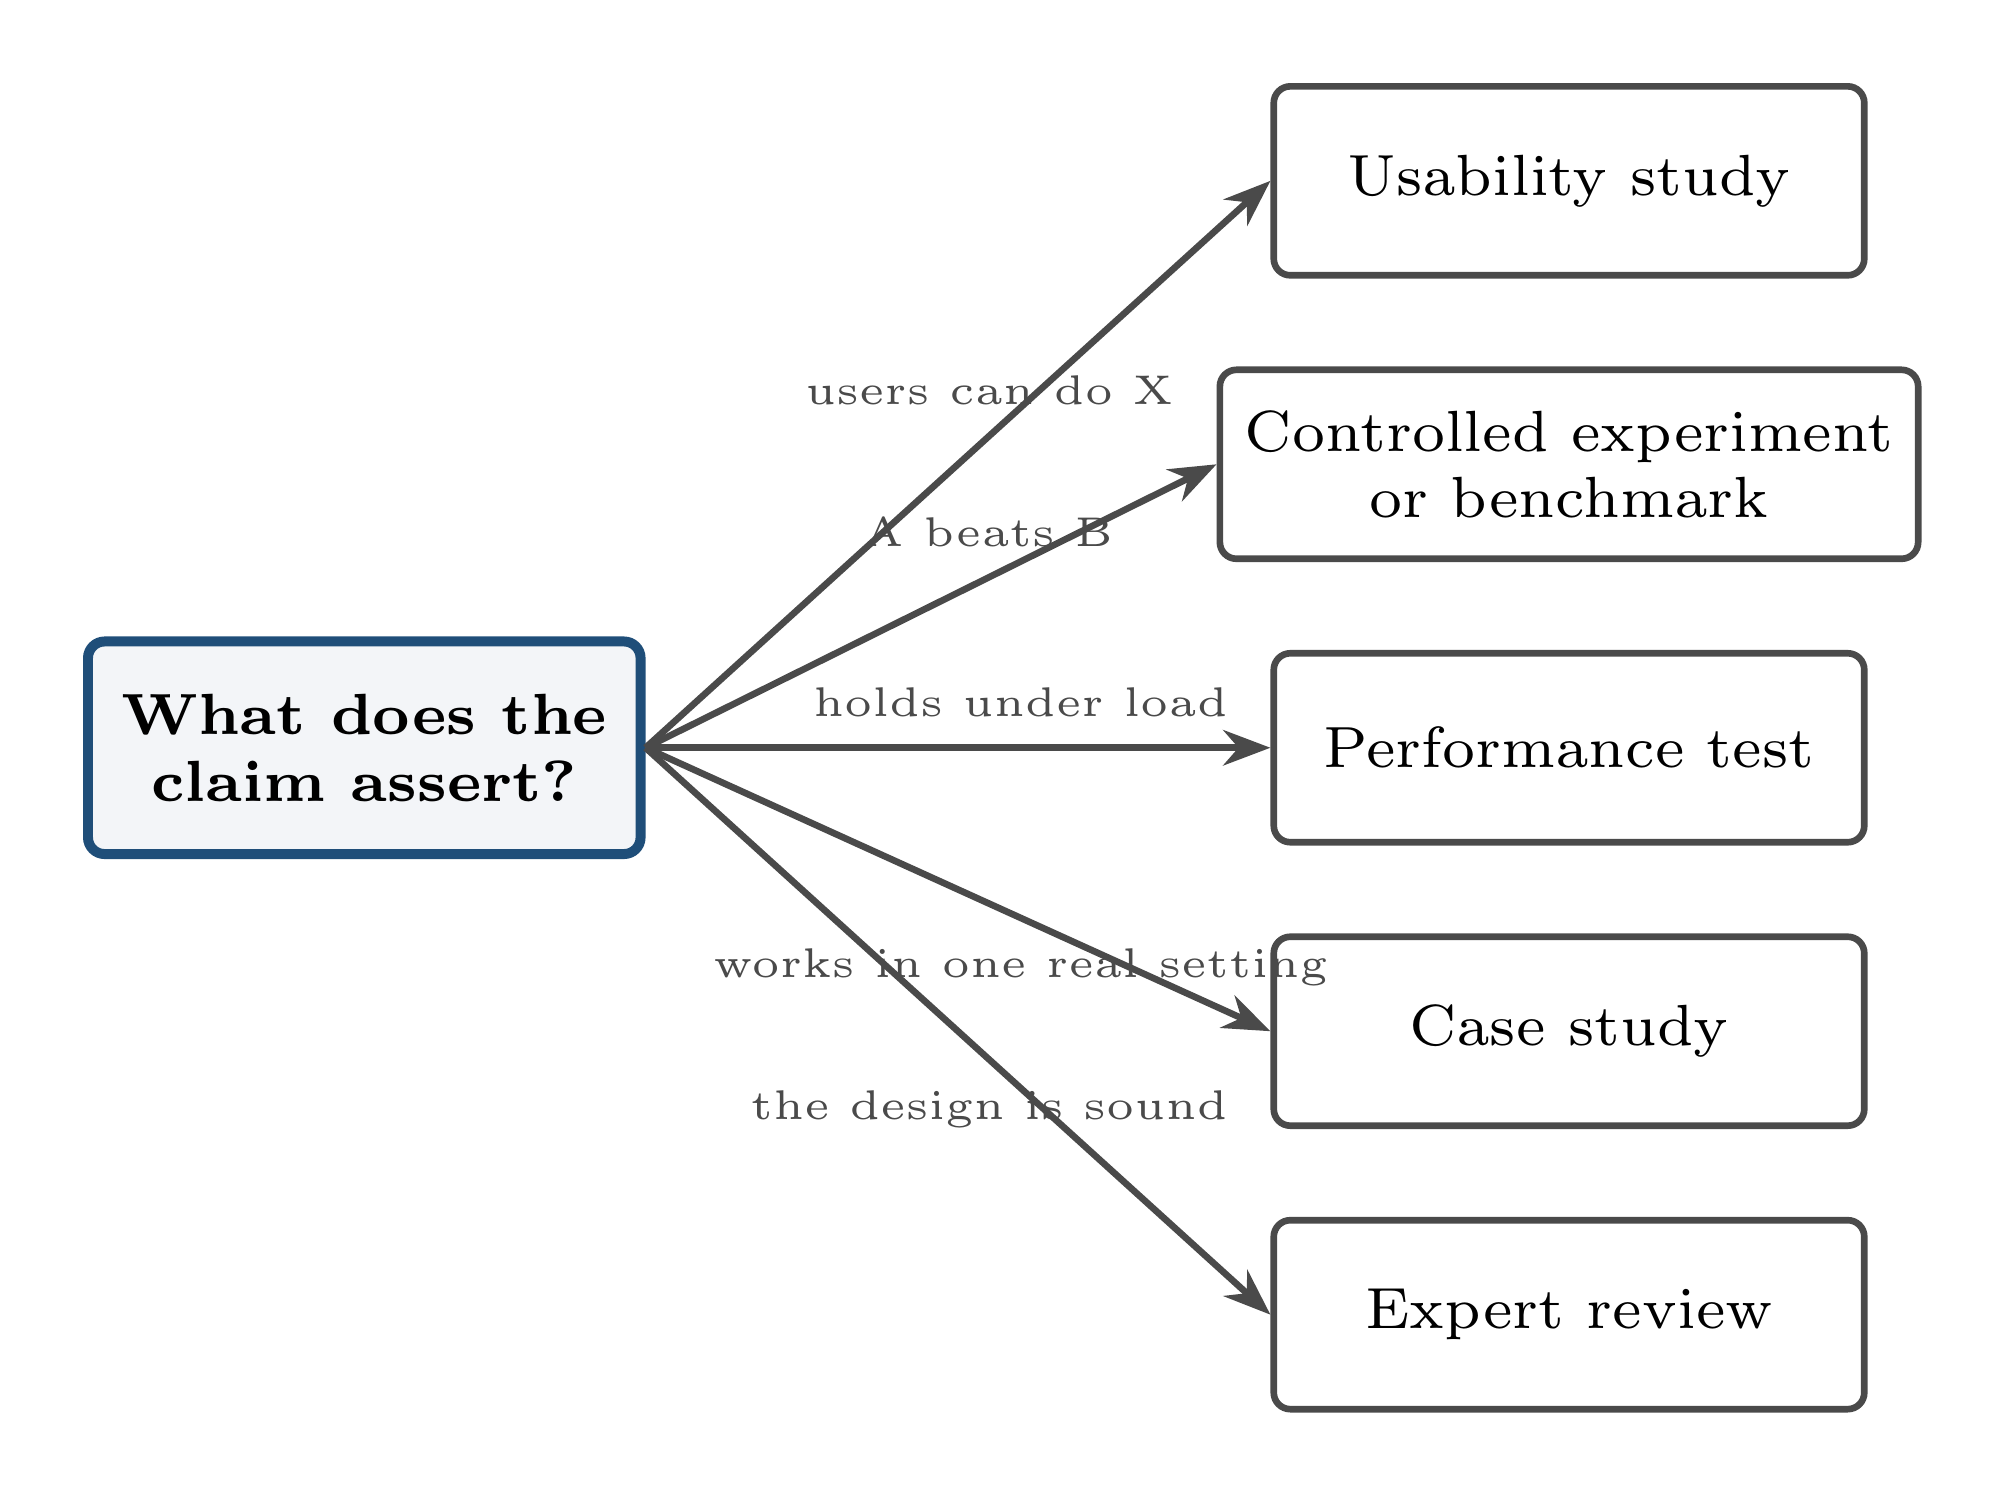
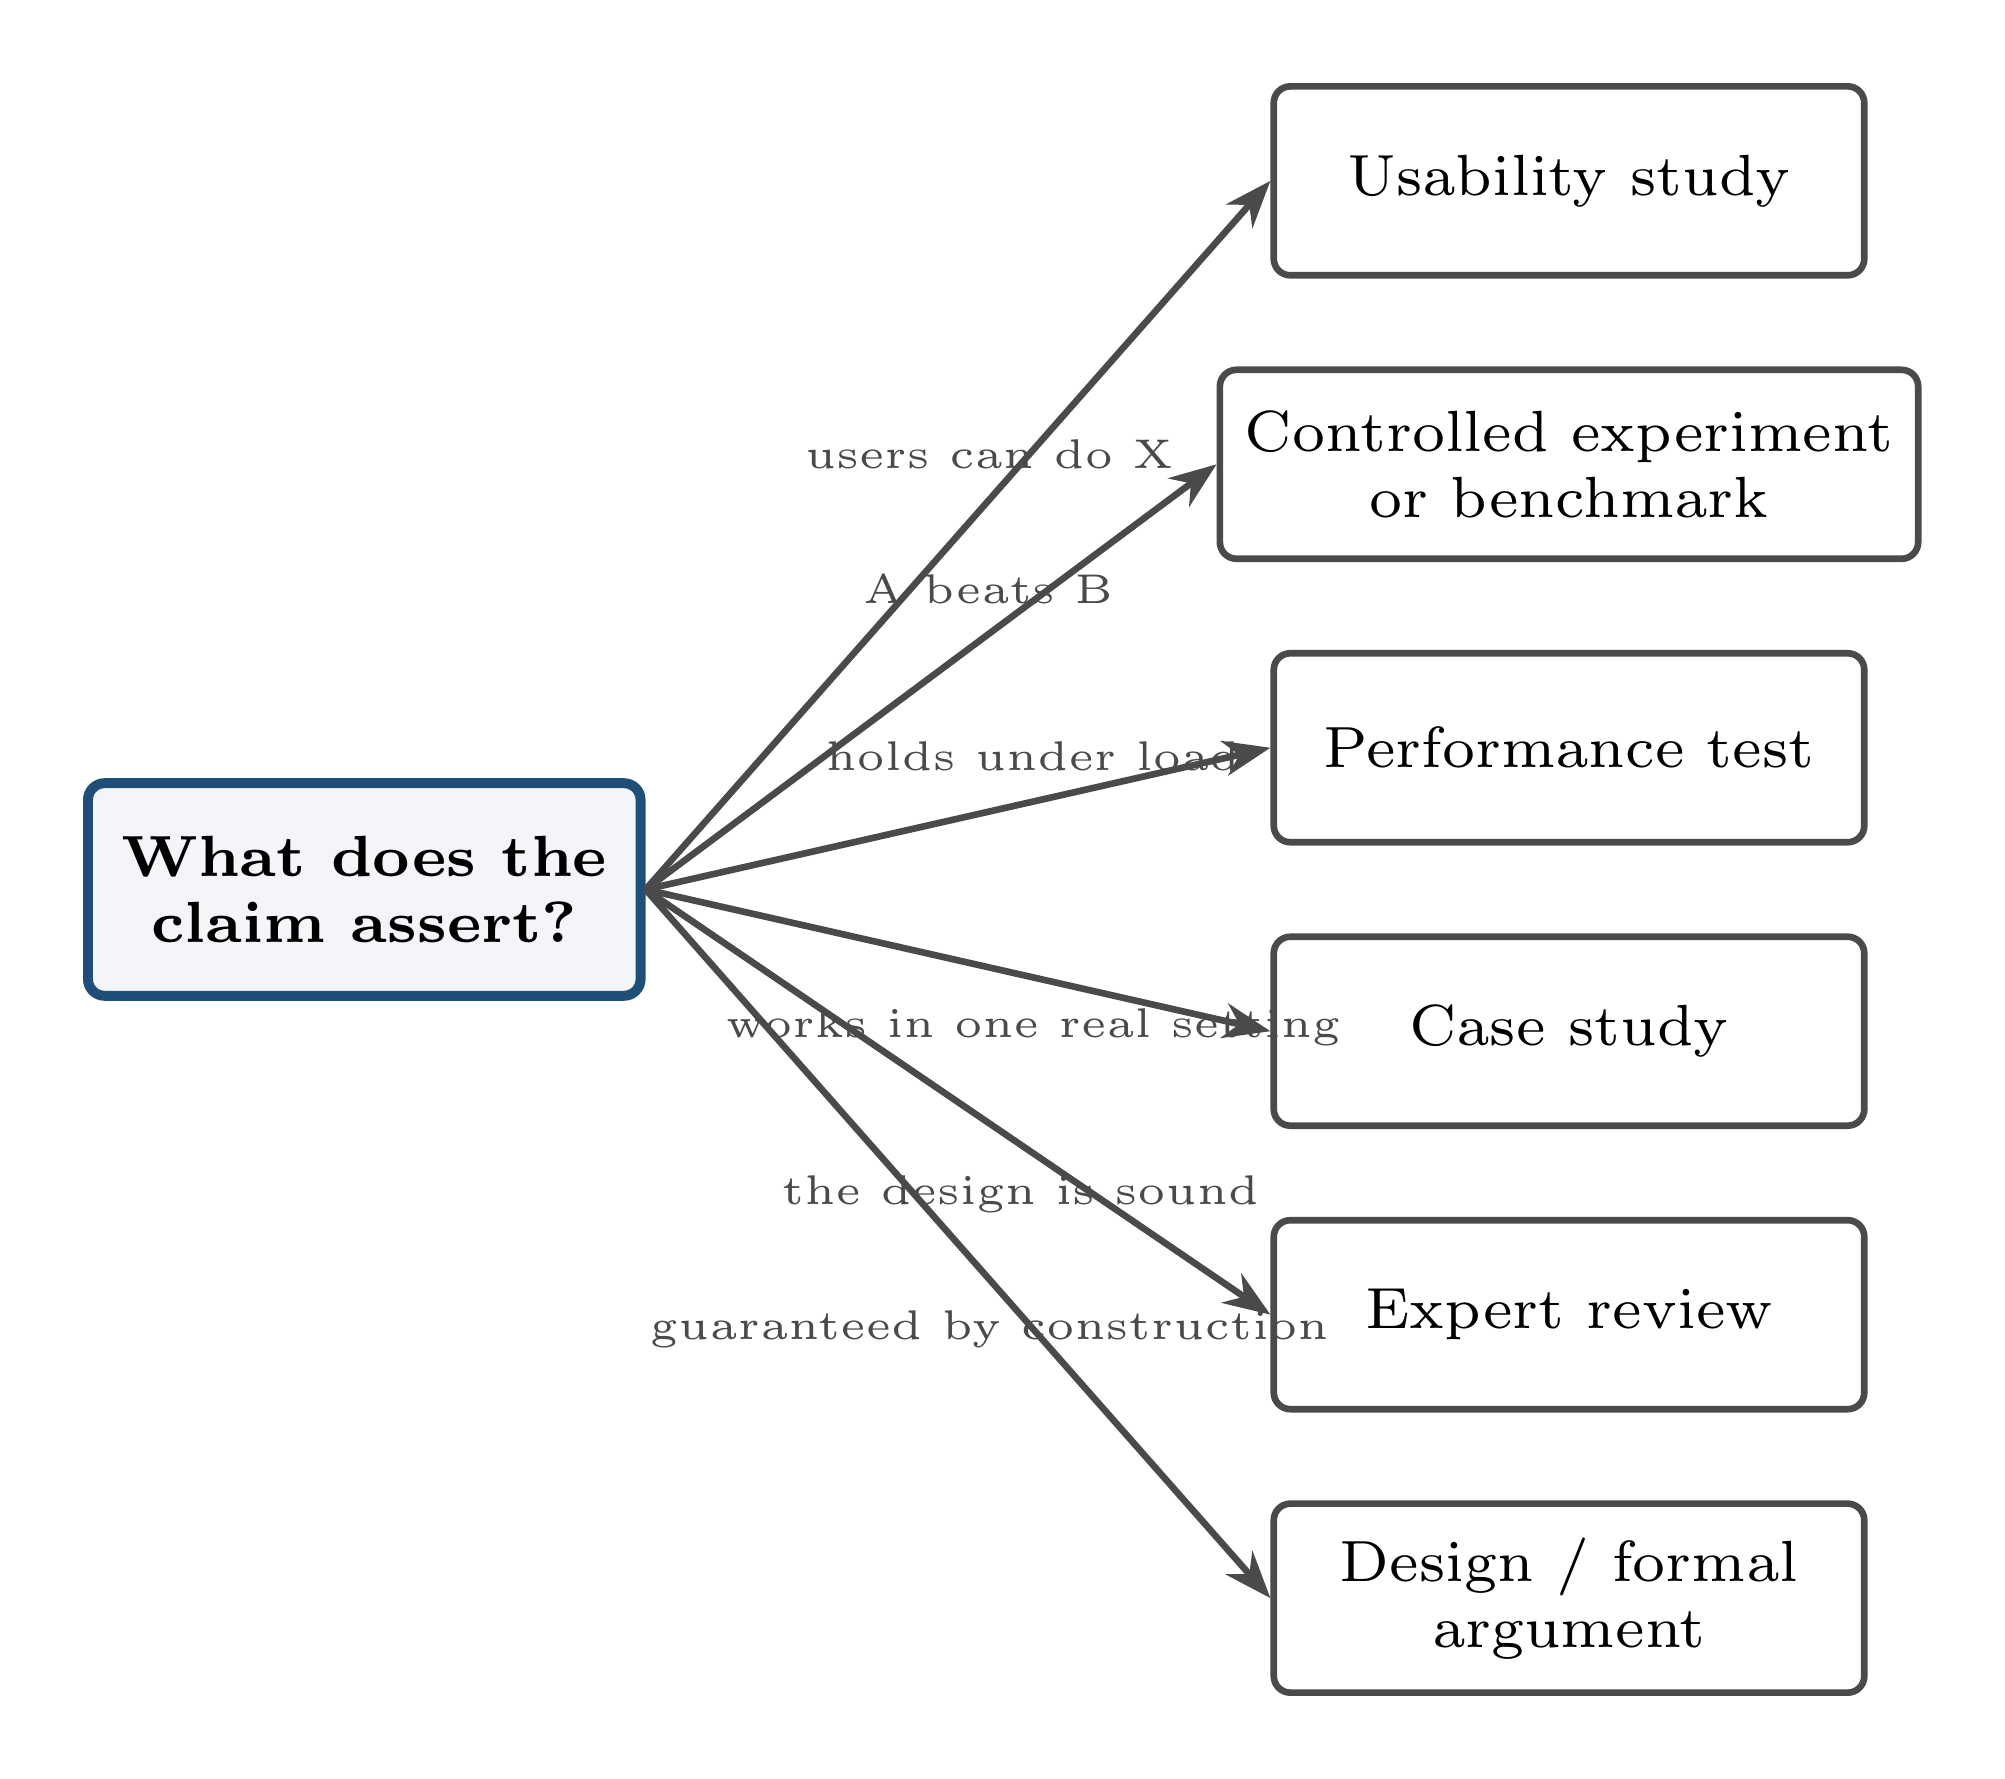
Sync: natbib in minimal sample; material-component confirmation; two figure re-exports

diff --git a/latex-on-ramp/thesis.tex b/latex-on-ramp/thesis.tex
@@ -2,6 +2,7 @@
 \usepackage[T1]{fontenc}      % correct hyphenation and accents
 \usepackage{graphicx}         % \includegraphics
 \usepackage{amsmath}          % better math
+\usepackage[round]{natbib}    % citations: \citep, \citet
 \usepackage{hyperref}         % clickable refs; load it last
 
 \title{My Thesis Title}

diff --git a/templates/ai-use-disclosure.md b/templates/ai-use-disclosure.md
@@ -9,4 +9,7 @@ every included line and passage, whoever typed its first draft.
 - **Used for (text):** _[drafting / editing / translation / none]_
 - **Not AI-assisted:** _[the parts that are entirely your own]_
 - **How outputs were validated:** _[review, tests, comparison against sources]_
-- **Confirmation:** I can explain every included line and passage. _[signature/date]_
+- **Confirmation:** I can explain and defend every material component of this
+  submission — code I wrote or adopted, its assumptions and dependencies, its
+  tests, and every passage of text — at the level of any line I present as my
+  own work. _[signature/date]_
